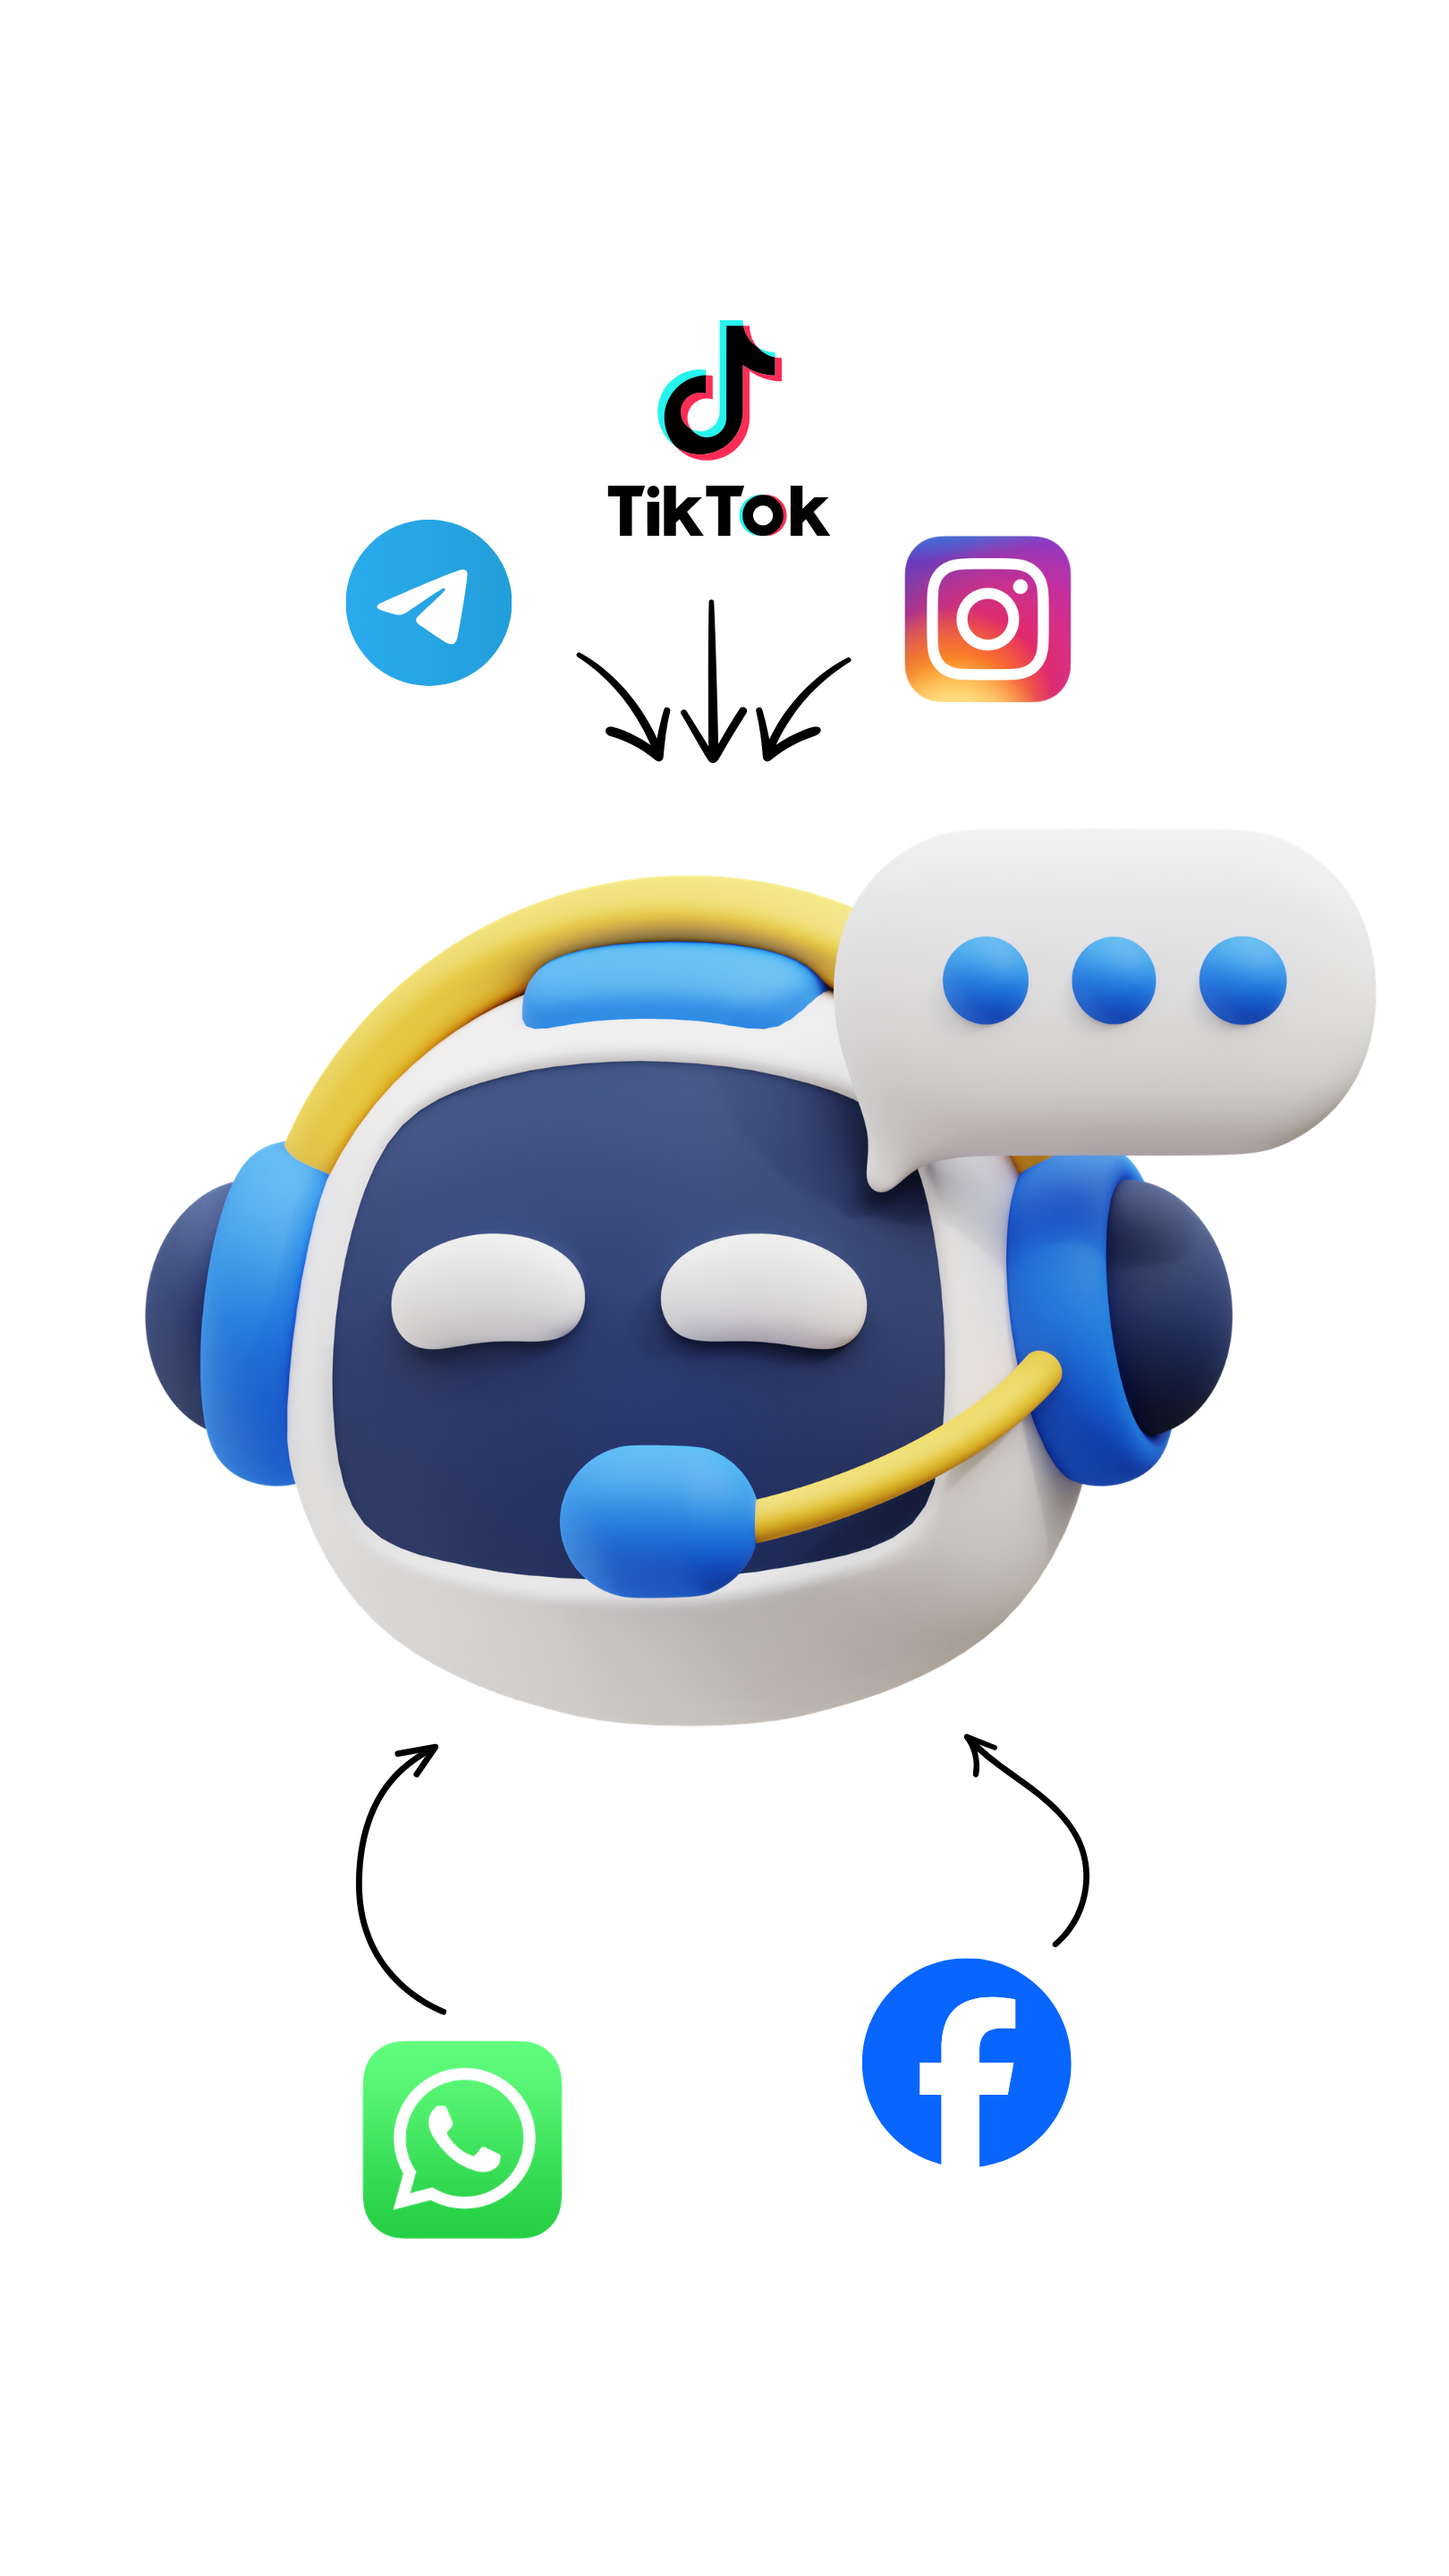
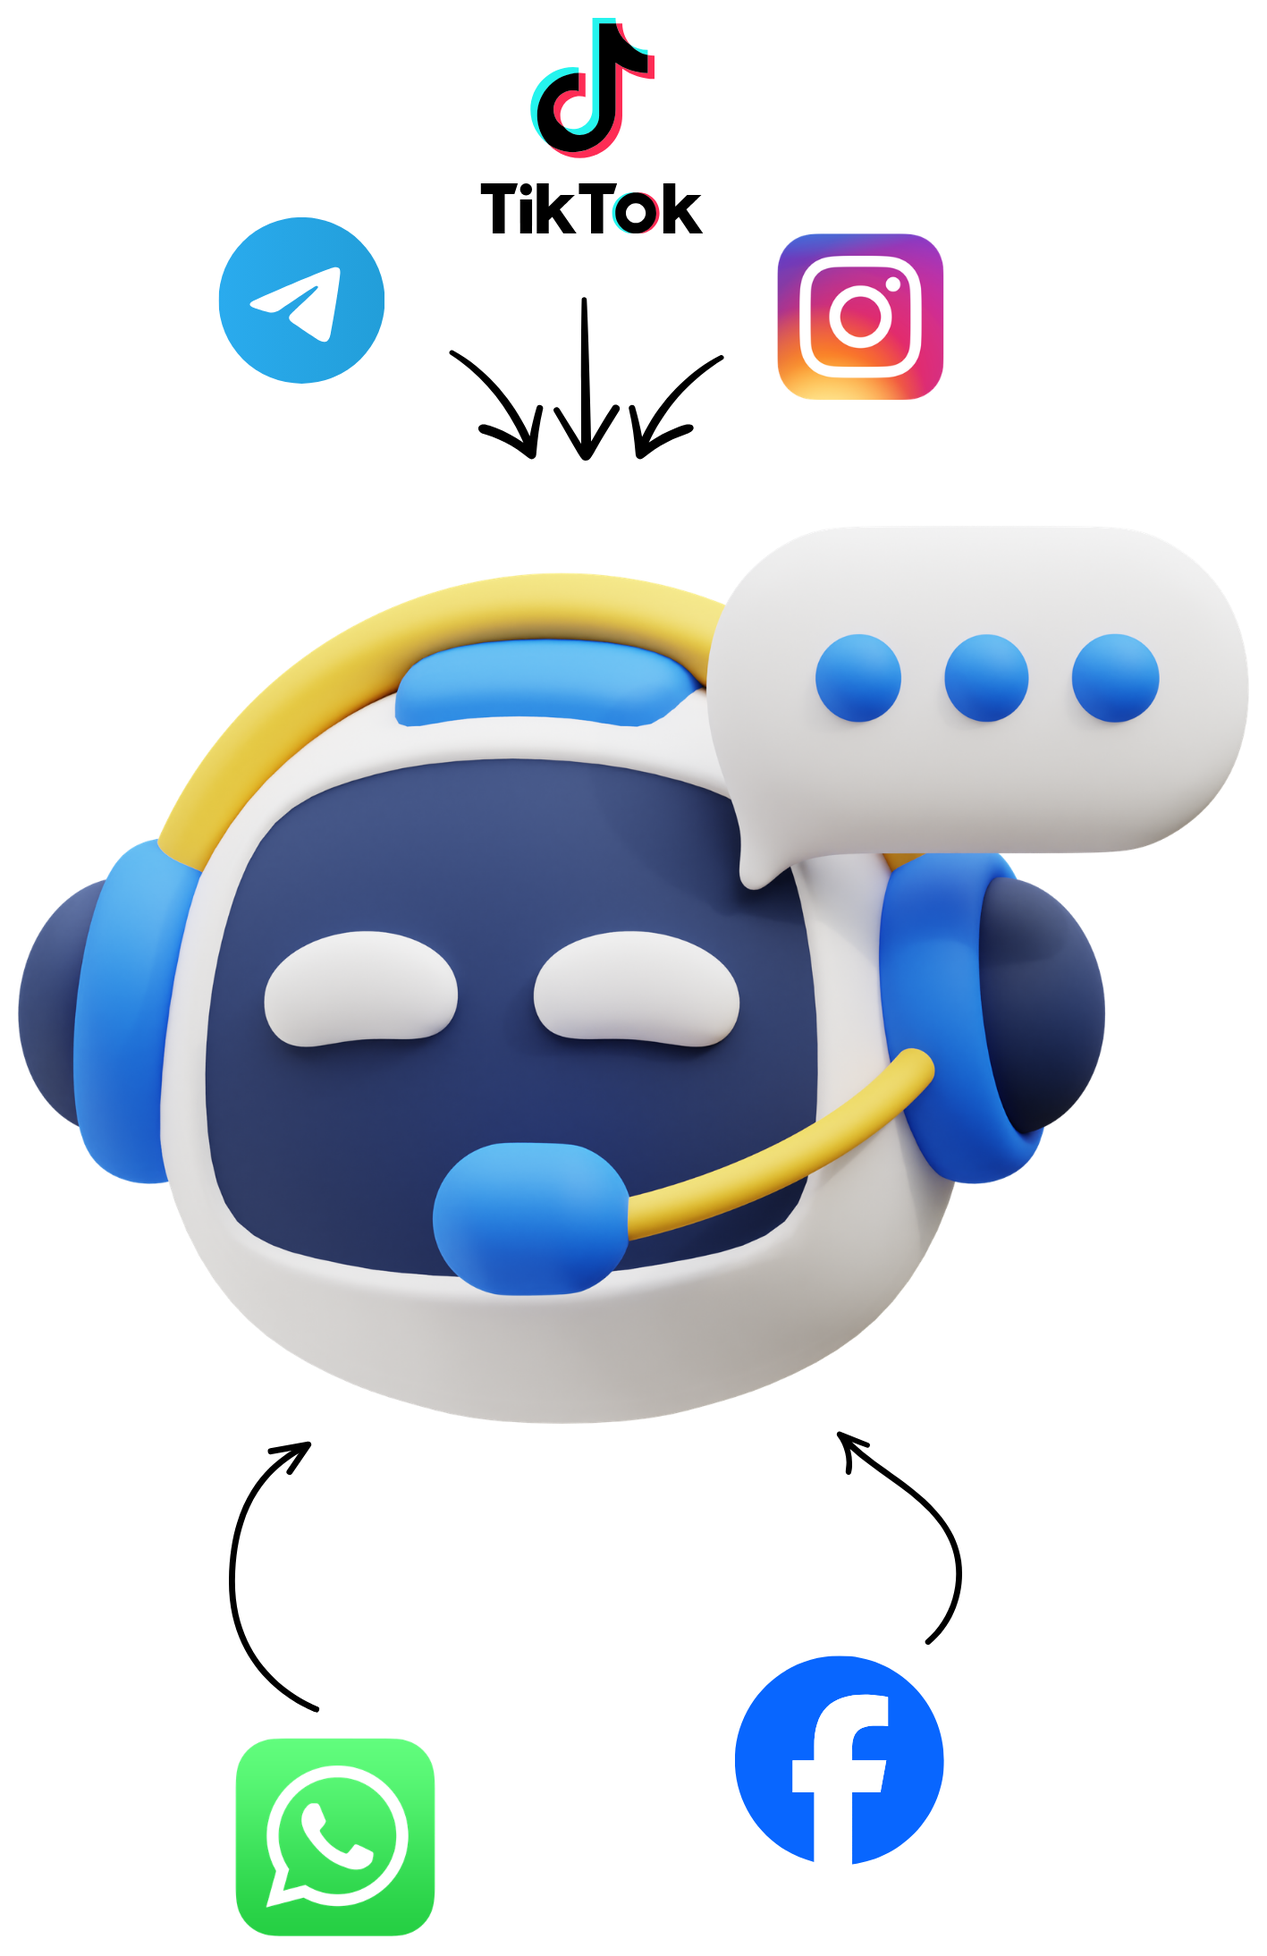
feat: agrandar y optimizar imagenes de los 3 niveles de agentes

diff --git a/components/AutomationTypesSection.tsx b/components/AutomationTypesSection.tsx
@@ -21,6 +21,7 @@ const automations = [
     icon: Zap,
     accentColor: "text-amber-300",
     badgeBg: "bg-amber-400/10 text-amber-300 border-amber-400/20",
+    glowBg: "from-amber-400/20 via-amber-400/5 to-transparent",
     features: [
       "Generación instantánea de presupuestos",
       "Formularios inteligentes conectados",
@@ -41,6 +42,7 @@ const automations = [
     icon: MessageSquare,
     accentColor: "text-bioluminescent-lime",
     badgeBg: "bg-bioluminescent-lime/10 text-bioluminescent-lime border-bioluminescent-lime/20",
+    glowBg: "from-bioluminescent-lime/20 via-bioluminescent-lime/5 to-transparent",
     features: [
       "Omnicanalidad: WhatsApp, Instagram, TikTok, Facebook, Telegram",
       "Filtrado cualitativo y lógico de consultas",
@@ -62,6 +64,7 @@ const automations = [
     icon: Cpu,
     accentColor: "text-sky-300",
     badgeBg: "bg-sky-400/10 text-sky-300 border-sky-400/20",
+    glowBg: "from-sky-400/20 via-sky-400/5 to-transparent",
     features: [
       "Orquestador multi-agente centralizado 24/7",
       "Agentes especializados para ventas, administración y marketing",
@@ -128,15 +131,20 @@ export default function AutomationTypesSection({
                   </div>
 
                   {/* 3D Image Container */}
-                  <div className="relative w-full h-56 rounded-xl bg-gradient-to-b from-white/5 to-transparent border border-white/5 flex items-center justify-center overflow-hidden group-hover:border-white/15 transition-colors">
-                    <div className="absolute inset-0 bg-radial from-white/5 to-transparent opacity-0 group-hover:opacity-100 transition-opacity" />
-                    <Image
-                      src={item.image}
-                      alt={item.imageAlt}
-                      width={320}
-                      height={320}
-                      className="object-contain max-h-52 drop-shadow-2xl transition-transform duration-500 group-hover:scale-105"
+                  <div className="relative w-full h-64 sm:h-72 rounded-2xl bg-gradient-to-b from-white/[0.07] to-white/[0.02] border border-white/10 flex items-center justify-center overflow-hidden p-3 group-hover:border-white/20 transition-all duration-300">
+                    {/* Ambient glow matching level color */}
+                    <div
+                      className={`absolute inset-0 bg-radial ${item.glowBg} opacity-25 group-hover:opacity-70 transition-opacity duration-500 blur-2xl pointer-events-none`}
                     />
+                    <div className="relative w-full h-full flex items-center justify-center">
+                      <Image
+                        src={item.image}
+                        alt={item.imageAlt}
+                        fill
+                        sizes="(max-width: 768px) 100vw, (max-width: 1200px) 33vw, 380px"
+                        className="object-contain p-2 drop-shadow-[0_15px_30px_rgba(0,0,0,0.65)] transition-transform duration-500 group-hover:scale-105"
+                      />
+                    </div>
                   </div>
 
                   {/* Title & Subtitle */}
